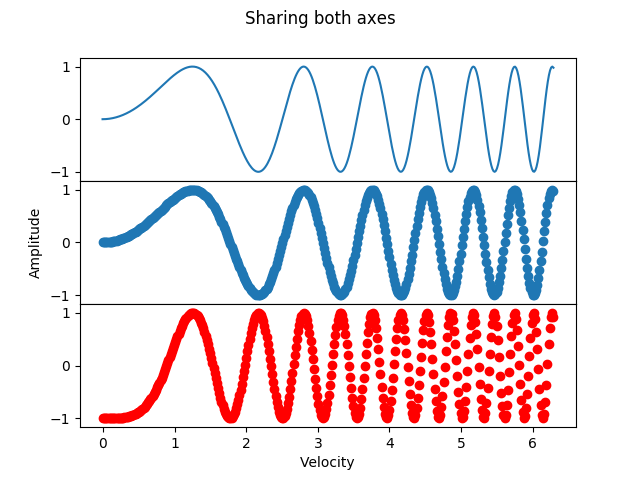
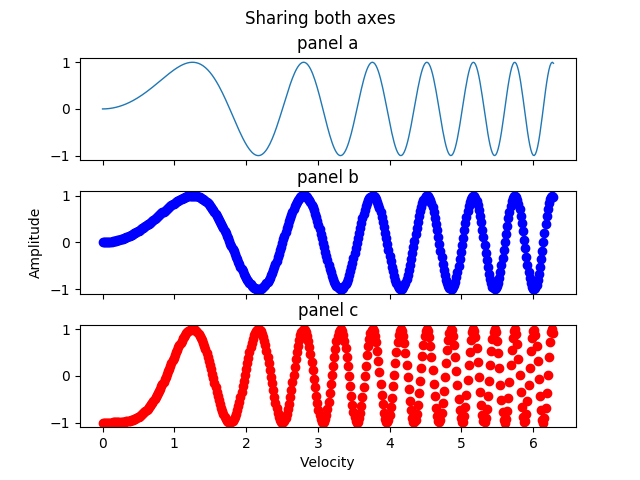
support subplot titles, 1.1.4

diff --git a/examples/subplotstest.py b/examples/subplotstest.py
@@ -3,13 +3,14 @@
 import numpy as np
 import matplotlib.pyplot as plt
 import plawt
+import matplotlib as mpl
 
 x = np.linspace(0, 2 * np.pi, 400)
 y = np.sin(x ** 2)
 
 # Three subplots sharing both x/y axes
 # f, (ax1, ax2, ax3) = plt.subplots(3, sharex=True, sharey=True)
-f, (ax1, ax2, ax3) = plt.subplots(3, sharex=False, sharey=True)
+f, (ax1, ax2, ax3) = plt.subplots(3, sharex=True, sharey=True)
 f.suptitle('Sharing both axes')
 
 # hack to have commone x and y labels
@@ -23,23 +24,29 @@ ax1.plot(x, y)
 # ax1.set_title('Sharing both axes')
 ax2.scatter(x, y)
 ax3.scatter(x, 2 * y ** 2 - 1, color='r')
+ax1.set_title('panel a', fontsize=12)
+ax2.set_title('panel b', fontsize=12)
+ax3.set_title('panel c', fontsize=12)
 # Fine-tune figure; make subplots close to each other and hide x ticks for
 # all but bottom plot.
-f.subplots_adjust(hspace=0, wspace=0)
-plt.savefig('subplottest.png')
+f.subplots_adjust(hspace=0.3, wspace=0)
+plt.savefig('subplotcompare.png')
 plt.close()
 
 plawt.plot({
 	0: {'x': x, 'y': y},
 	'title': 'Sharing both axes',
+	'subtitle': 'panel a',
 	'xlabel': 'Velocity', 'ylabel': 'Amplitude',
 	'sharex': True, 'sharey': True,
-	'hspace': 0,
+	'hspace': 0.3,
 	# 'aspect': 16/9,
-	'filename': 'subplotcompare.png'
+	'filename': 'subplottest.png'
 }, {
-	0: {'x': x, 'y': y, 'line': 'bo'}
+	0: {'x': x, 'y': y, 'line': 'bo'},
+	'subtitle': 'panel b'
 }, {
-	0: {'x': x, 'y': 2*y**2-1, 'line': 'ro'}
+	0: {'x': x, 'y': 2*y**2-1, 'line': 'ro'},
+	'subtitle': 'panel c'
 })
 

diff --git a/plawt.py b/plawt.py
@@ -1,3 +1,4 @@
+import matplotlib as mpl
 import matplotlib.pyplot as plt
 from numpy import ndarray
 
@@ -51,14 +52,14 @@ def plot(*plotStructs):
 				linewidth  = val['lw']         if 'lw' in val else linewidth
 				alpha      = val['alpha']      if 'alpha' in val else 1.0
 
-
 				if y is not None:
-					line, = ax.plot(x, y, linestyle, drawstyle=drawstyle)
+					line, = ax.plot(x, y, linestyle)
 				else:
-					line, = ax.plot(y, linestyle, drawstyle=drawstyle)
+					line, = ax.plot(y, linestyle)
 				mfc = val['markerfacecolor'] if 'markerfacecolor' in val else line.get_markerfacecolor()
 				mfc = val['mfc'] if 'mfc' in val else line.get_markerfacecolor()
 
+				line.set_drawstyle(drawstyle)
 				line.set_label(label)
 				line.set_markersize(markersize)
 				line.set_linewidth(linewidth)
@@ -75,6 +76,9 @@ def plot(*plotStructs):
 				ax.set_ylim(val)   if key == 'ylim' else None
 				ax.set_aspect(val) if key == 'aspect' else None
 
+				if key == 'subtitle':
+					fontsize = plotStruct['fontsize'] if 'fontsize' in plotStruct else mpl.rcParams['axes.titlesize']
+					ax.set_title(val, fontsize=fontsize)
 				if key == 'legend':
 					legend = val
 					loc = legend['loc'] if 'loc' in legend else '1'

diff --git a/setup.py b/setup.py
@@ -1,7 +1,7 @@
 from setuptools import setup
 setup(
 	name = 'plawt',
-	version = '1.1.3',
+	version = '1.1.4',
 	description = 'JSON-like sugar for plotting with matplotlib',
 	long_description = 'JSON-like sugar for plotting with matplotlib',
 	author = 'Mohammed Chamma',
